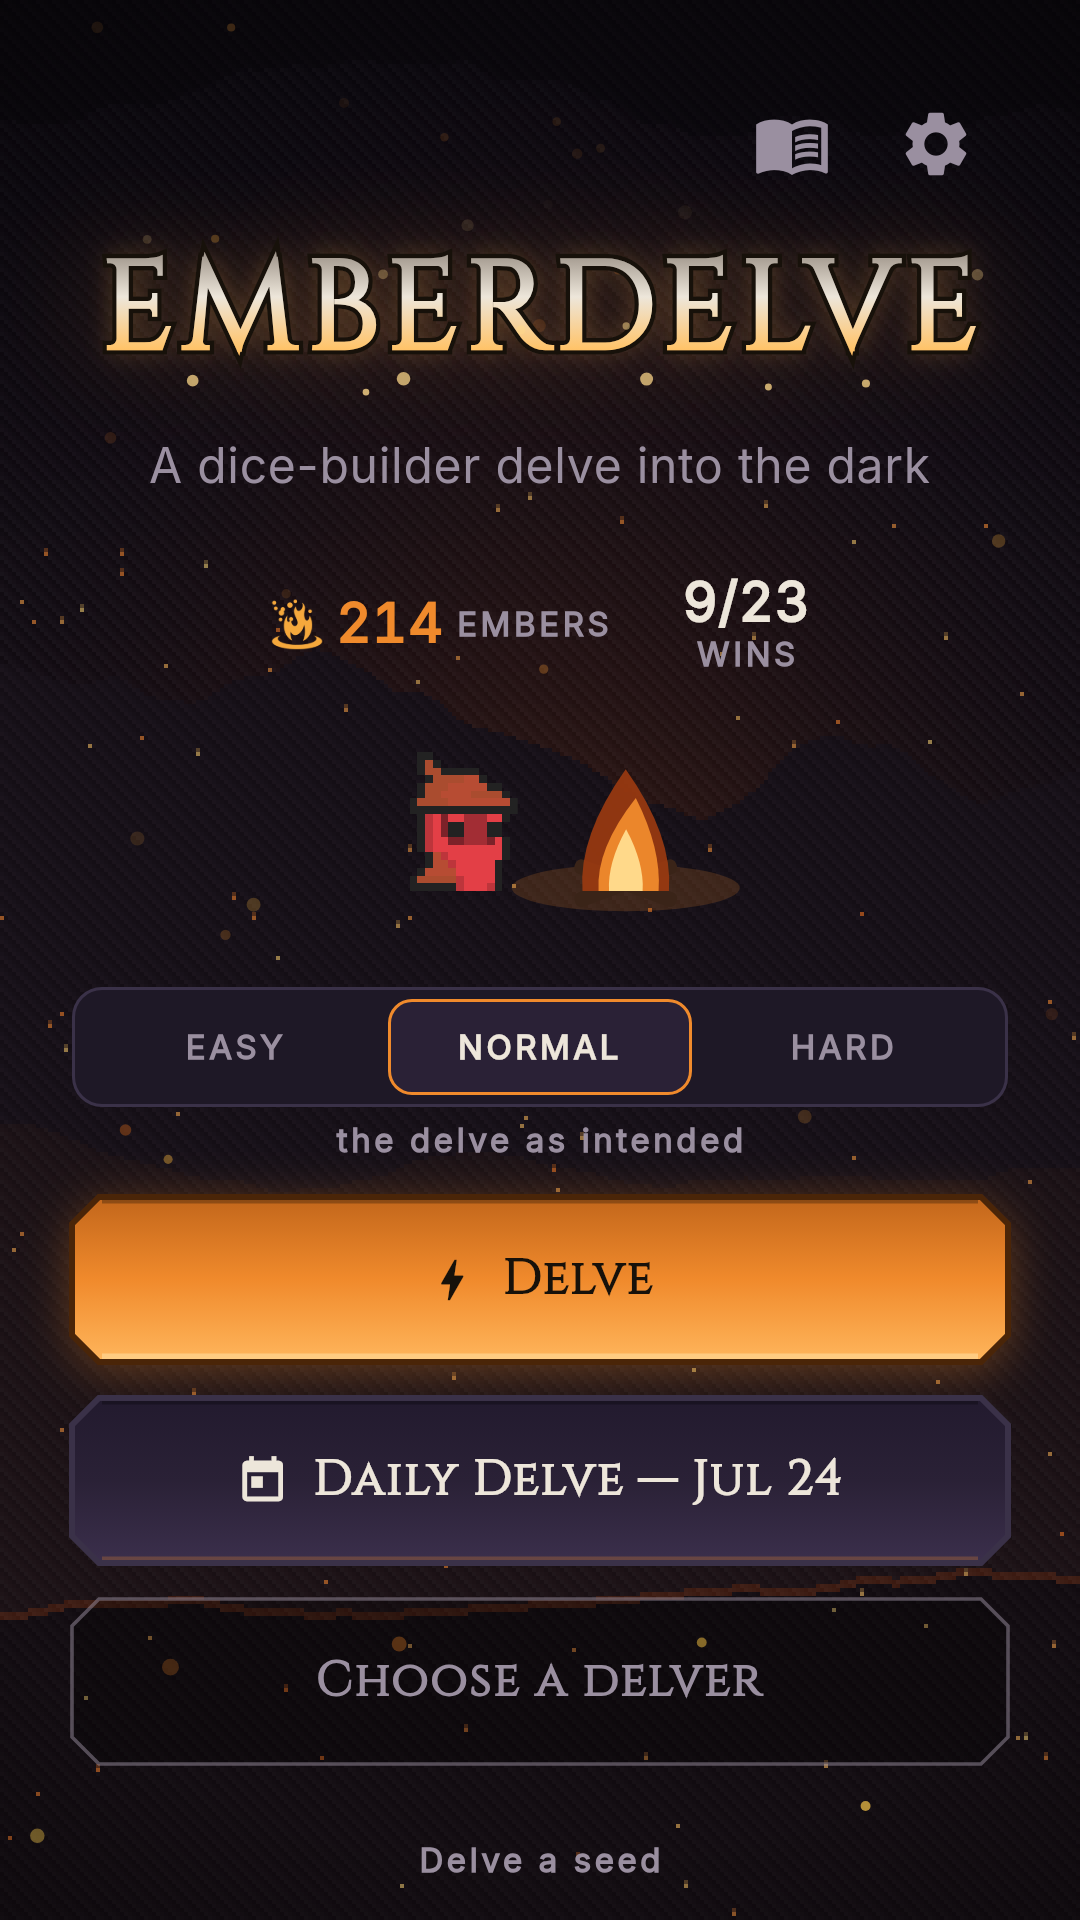
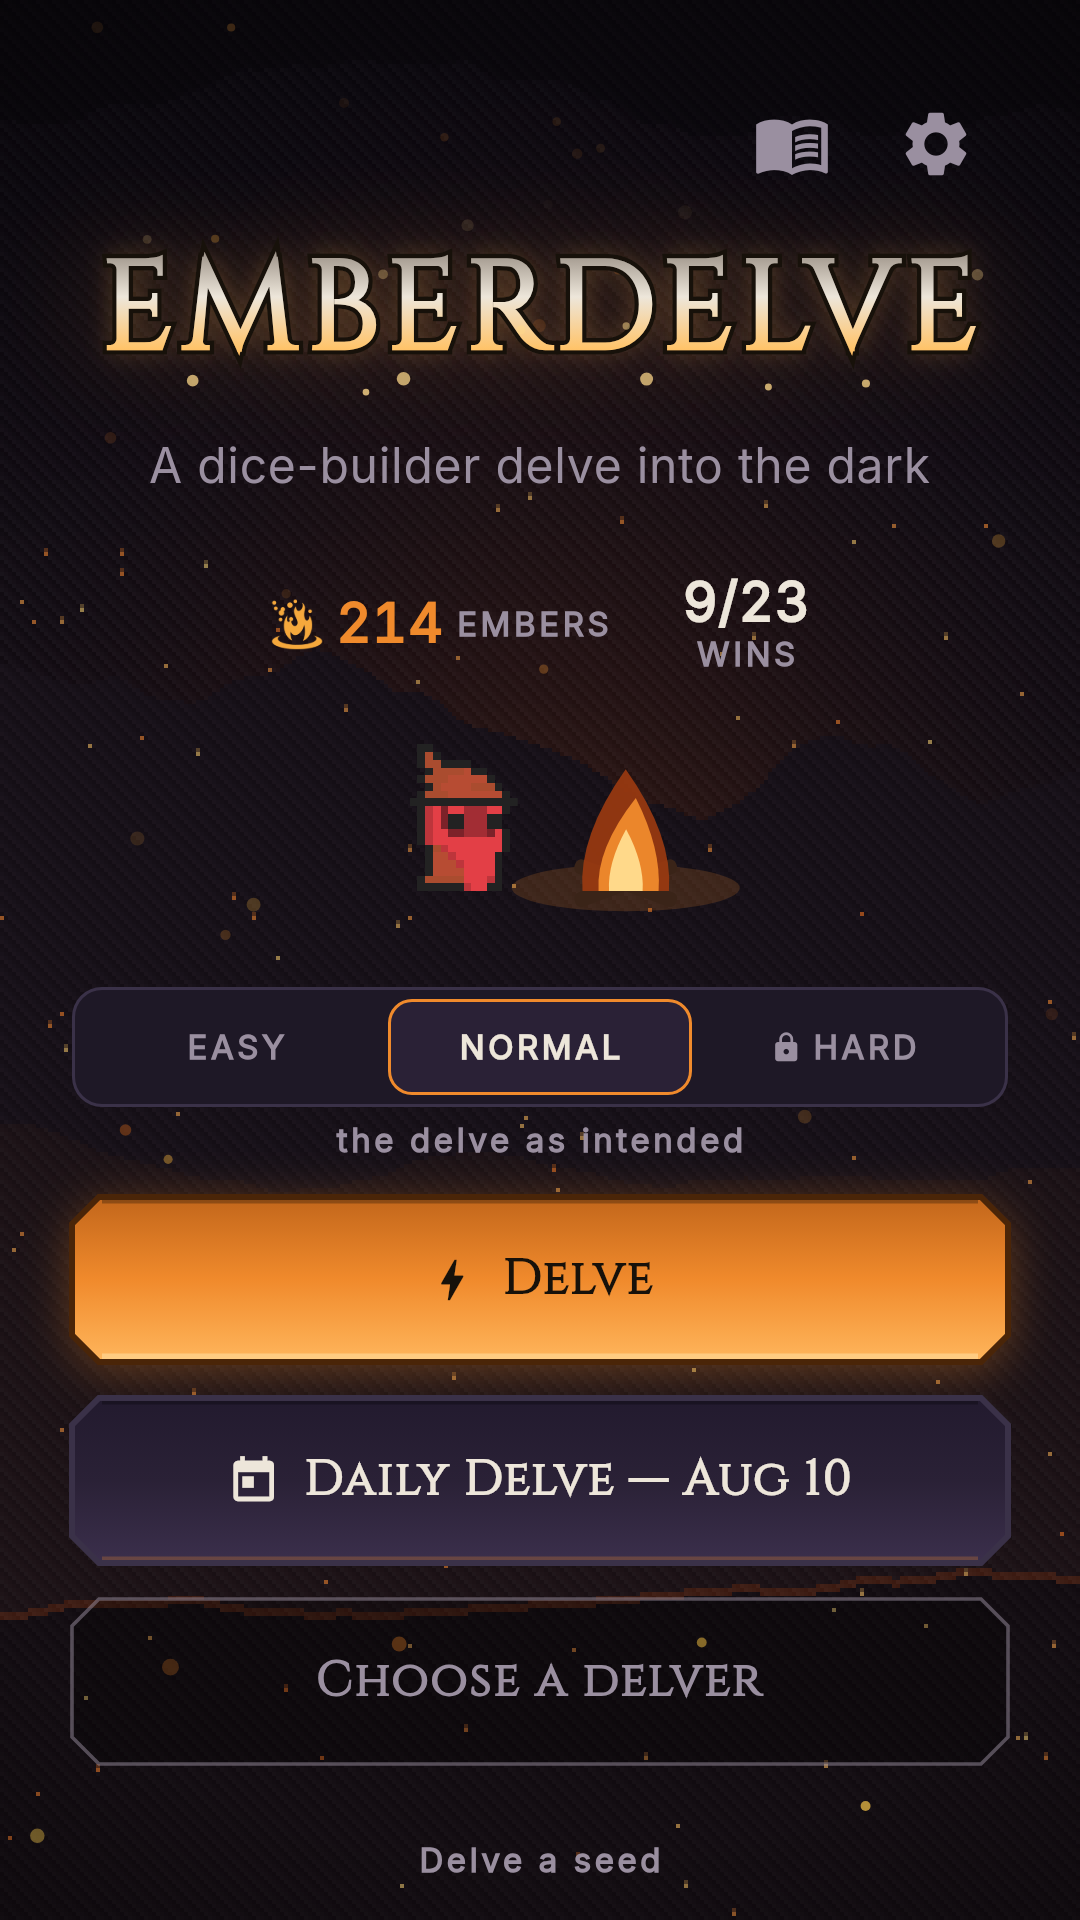
docs(store): listing copy + regenerated screenshots for the Ember Forge
Title screenshot now truthfully shows the HARD lock a free profile sees;
IARC and data-safety notes updated for the one-time purchase.

diff --git a/docs/store/play-listing.md b/docs/store/play-listing.md
@@ -43,11 +43,13 @@ Pick a starting boon and delve again in seconds — 15 boons keep restarts
 fresh.
 
 FAIR BY DESIGN
-• Zero ads, zero tracking, no internet permission — fully offline
+• Zero ads, zero tracking — fully offline
 • No energy timers, no streaks, no FOMO mechanics
 • Deterministic runs: fair deaths, learnable rules
 • A daily seeded delve, shared by everyone
-• Easy, normal, and hard difficulties
+• Free forever: full runs, every delver, the daily
+• One honest one-time unlock (the Ember Forge) opens HARD and the
+  Ascension ladder — no subscriptions, no consumables, ever
 
 Made for one-thumb portrait play. Delve in.
 
@@ -60,13 +62,16 @@ Made for one-thumb portrait play. Delve in.
 
 - Violence: mild fantasy violence (stylized pixel creatures, no gore) → likely
   Everyone 10+ / PEGI 7
-- No user interaction/communication, no data sharing, no purchases yet
-  (update the questionnaire if/when the one-time IAP unlock ships)
+- No user interaction/communication, no data sharing
+- Digital purchases: YES — one optional one-time unlock (the Ember Forge,
+  v0.4.0+); no loot boxes, no gambling mechanics, no subscriptions
 - No gambling with real money; contains dice but no wagering
 
 ## Data safety form
 
-- Collects no data, shares no data (see docs/store/privacy-policy.md)
+- Collects no data, shares no data (see docs/store/privacy-policy.md).
+  Purchases are processed entirely by Google Play Billing; the app stores
+  only a local owns/doesn't-own flag and never sees payment details.
 - Privacy policy URL:
   https://tapiwamakandigona.github.io/emberdelve/store/privacy-policy.html
   (GitHub Pages, serves main:/docs — the styled page is
